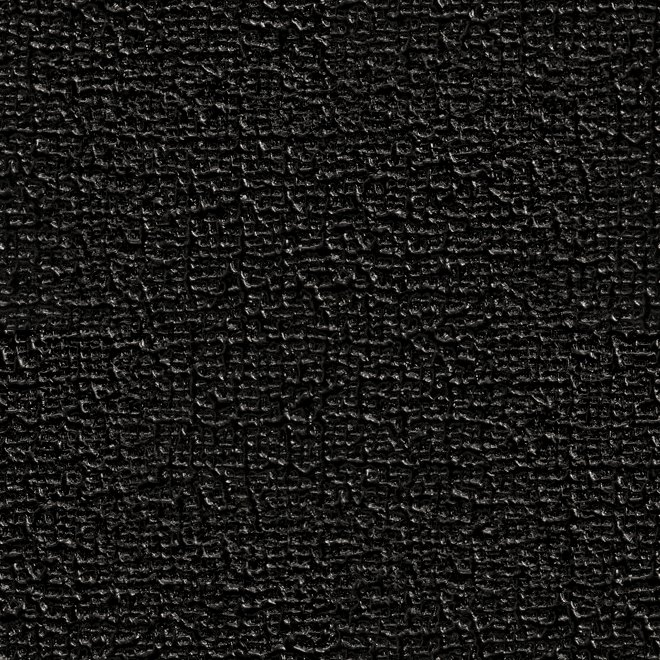
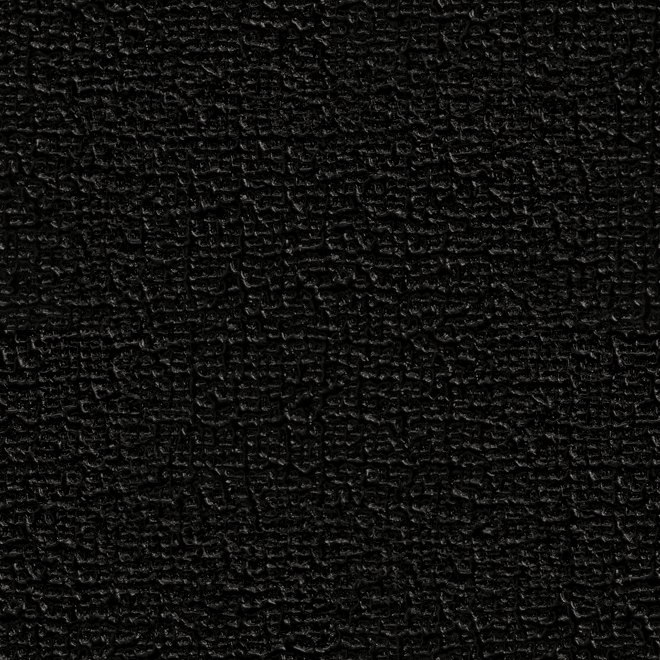
Demo: lighter/darker leather, visible Play

diff --git a/apps/streamdaw-demo.html b/apps/streamdaw-demo.html
@@ -37,8 +37,8 @@
   --vu-g: #1d9a4a; --vu-y: #d29a00; --vu-r: #e02f3a; --vu-off: .16; --vu-glow: 2;
   /* The leather: Ori's amp tolex, one seamless tile (site/snowstar/demo/leather-make.py), with a
      soft light from the top left. --amp: the phone's play card; --amp-wall: the app's middle. */
-  --amp: linear-gradient(155deg, rgba(255,255,255,.28) 0%, rgba(255,255,255,.06) 32%, rgba(0,0,0,0) 58%, rgba(0,0,0,.08) 100%), #bdb4ab url(demo/leather-light.jpg) 0 0 / 330px auto repeat;
-  --amp-wall: linear-gradient(rgba(239,233,218,.35), rgba(239,233,218,.35)), #c4bbb1 url(demo/leather-light.jpg) 0 0 / 330px auto repeat;
+  --amp: linear-gradient(155deg, rgba(255,255,255,.28) 0%, rgba(255,255,255,.06) 32%, rgba(0,0,0,0) 58%, rgba(0,0,0,.08) 100%), #e7e1d4 url(demo/leather-light.jpg) 0 0 / 330px auto repeat;
+  --amp-wall: linear-gradient(rgba(239,233,218,.25), rgba(239,233,218,.25)), #e7e1d4 url(demo/leather-light.jpg) 0 0 / 330px auto repeat;
   --amp-ink: #16140f; --amp-sub: rgba(22,20,15,.7); --amp-edge: #6f6556; --amp-text: 0 1px 0 rgba(255,255,255,.45);
   --amp-glow: inset 0 1px 0 rgba(255,255,255,.35), inset 0 0 0 3px rgba(0,0,0,.08), 0 10px 24px -16px rgba(40,30,10,.55);
   --pop-shadow: 0 10px 30px -10px rgba(0,0,0,.35);
@@ -57,8 +57,8 @@ html[data-theme="dark"] {
   --meter: #f3eddc; --shadow: none;
   --vu-hi: #1d1c18; --vu-lo: #0c0b09; --vu-ink: 232, 226, 207; --vu-edge: 255, 255, 255;  /* the meters: dark hardware */
   --vu-g: #44d36e; --vu-y: #f4c430; --vu-r: #ff4b4b; --vu-off: .11; --vu-glow: 6;
-  --amp: linear-gradient(155deg, rgba(255,255,255,.10) 0%, rgba(255,255,255,.025) 30%, rgba(0,0,0,0) 55%, rgba(0,0,0,.22) 100%), #141312 url(demo/leather-dark.jpg) 0 0 / 330px auto repeat;
-  --amp-wall: linear-gradient(rgba(18,17,14,.32), rgba(18,17,14,.32)), #141312 url(demo/leather-dark.jpg) 0 0 / 330px auto repeat;
+  --amp: linear-gradient(155deg, rgba(255,255,255,.10) 0%, rgba(255,255,255,.025) 30%, rgba(0,0,0,0) 55%, rgba(0,0,0,.22) 100%), #12110e url(demo/leather-dark.jpg) 0 0 / 330px auto repeat;
+  --amp-wall: linear-gradient(rgba(18,17,14,.2), rgba(18,17,14,.2)), #12110e url(demo/leather-dark.jpg) 0 0 / 330px auto repeat;
   --amp-ink: #f3eddc; --amp-sub: rgba(243,237,220,.7); --amp-edge: #000; --amp-text: 0 1px 2px rgba(0,0,0,.55);
   --amp-glow: inset 0 1px 0 rgba(255,255,255,.08), inset 0 0 0 3px rgba(0,0,0,.25), 0 10px 24px -14px rgba(0,0,0,.6);
   --pop-shadow: 0 10px 30px -10px rgba(0,0,0,.55);
@@ -74,8 +74,8 @@ html[data-theme="dark"] {
     --meter: #f3eddc; --shadow: none;
     --vu-hi: #1d1c18; --vu-lo: #0c0b09; --vu-ink: 232, 226, 207; --vu-edge: 255, 255, 255;  /* the meters: dark hardware */
     --vu-g: #44d36e; --vu-y: #f4c430; --vu-r: #ff4b4b; --vu-off: .11; --vu-glow: 6;
-    --amp: linear-gradient(155deg, rgba(255,255,255,.10) 0%, rgba(255,255,255,.025) 30%, rgba(0,0,0,0) 55%, rgba(0,0,0,.22) 100%), #141312 url(demo/leather-dark.jpg) 0 0 / 330px auto repeat;
-    --amp-wall: linear-gradient(rgba(18,17,14,.32), rgba(18,17,14,.32)), #141312 url(demo/leather-dark.jpg) 0 0 / 330px auto repeat;
+    --amp: linear-gradient(155deg, rgba(255,255,255,.10) 0%, rgba(255,255,255,.025) 30%, rgba(0,0,0,0) 55%, rgba(0,0,0,.22) 100%), #12110e url(demo/leather-dark.jpg) 0 0 / 330px auto repeat;
+    --amp-wall: linear-gradient(rgba(18,17,14,.2), rgba(18,17,14,.2)), #12110e url(demo/leather-dark.jpg) 0 0 / 330px auto repeat;
     --amp-ink: #f3eddc; --amp-sub: rgba(243,237,220,.7); --amp-edge: #000; --amp-text: 0 1px 2px rgba(0,0,0,.55);
     --amp-glow: inset 0 1px 0 rgba(255,255,255,.08), inset 0 0 0 3px rgba(0,0,0,.25), 0 10px 24px -14px rgba(0,0,0,.6);
     --pop-shadow: 0 10px 30px -10px rgba(0,0,0,.55);
@@ -439,6 +439,8 @@ html[data-theme="dark"] .theme-btn::before { content: "\2600"; }  /* a sun: swit
   .playcard .playinfo, .playcard .syncmode { text-shadow: var(--amp-text); }
   .playcard .playwrap { margin: 0 0 12px; }
   .playcard .vuband { margin: 0; }
+  /* Not live yet: a plain disc, not the solid "go" one, but it must still show on the leather. */
+  .playcard button.play.offline { background: var(--panel); color: var(--ink); border-color: var(--dim); }
   .foot .idrow { display: inline-flex; margin: 0 4px; vertical-align: middle; }
   .foot .idrow .idbtn { height: 38px; }
 
